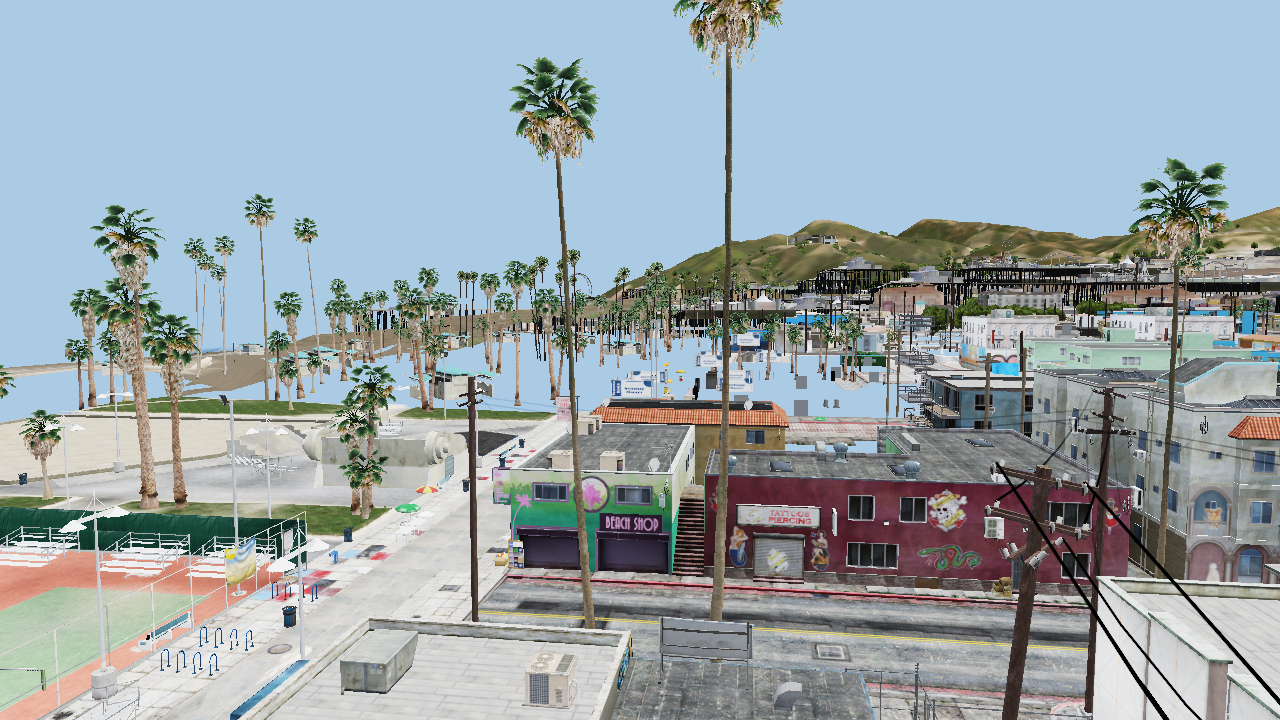
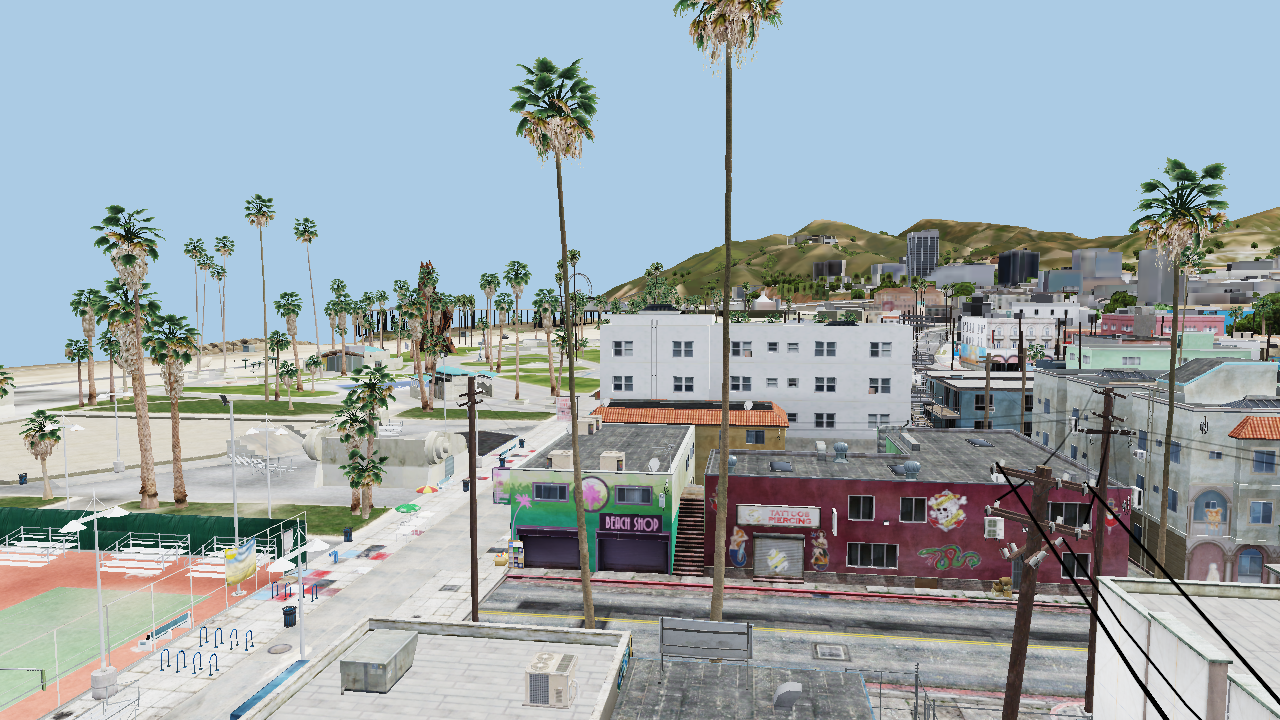
Docs and README images for the #11 fix: cover command, STATUS entry, re-rendered gallery
cli.md documents `cover`; debugging.md gains the "what should be drawn
here" and "same mesh where different objects should be" workflows;
STATUS.md records the root cause, the numbers and the data facts
measured along the way; rendering.md and README no longer list #11 as
open and describe the model cache key. The four README images are
re-rendered with the fix (the Vinewood one from the issue's own camera,
the beach one from a camera with the Del Perro pier 500 m away).

Claude-Session: https://claude.ai/code/session_014JLSQ2qZp2M9Nm34BafJ1T

Changed region(s): [[0.0, 0.3056, 1.0, 0.6417], [0.4062, 0.3667, 0.4375, 0.3972]]

diff --git a/README.md b/README.md
@@ -14,7 +14,7 @@ Native Direct3D 11 on Windows. Headless on Linux through DXVK, with no GPU requi
 
 ![Vespucci Beach rendered by Vespucci on a CPU, through the game's shaders](docs/images/vespucci_beach_overview.png)
 
-<p align="center"><sub>Vespucci Beach, 1280×720, 1,989 entities, rendered in about three seconds on a laptop GPU (RTX 3050) — or in a few more on a 2-core CPU through lavapipe, with no GPU at all. Every pixel comes from the game's own compiled shaders and materials.</sub></p>
+<p align="center"><sub>Vespucci Beach, 1280×720, 1,989 entities, rendered in about four seconds on a laptop GPU (RTX 3050) — or in a few more on a 2-core CPU through lavapipe, with no GPU at all. Every pixel comes from the game's own compiled shaders and materials.</sub></p>
 
 ## What this is
 
@@ -36,7 +36,7 @@ The render core is at milestone 4 of 6. What works today, all headless on Linux:
 | ✅ Game access | Keys derived from your `GTA5.exe`, every `.rpf` (nested, 92 DLC packs in load order, 389k files), story-mode vs. Online map sets from the DLC change sets |
 | ✅ Formats | Drawables (`.ydr`/`.ydd`/`.yft`), textures (`.ytd`, BC1–BC7), maps and archetypes (`.ymap`/`.ytyp`, 159k archetypes), the game's `.fxc` shader containers and DXBC reflection (696 shaders, 21k blobs, zero failures) |
 | ✅ One model | `render-model` draws any prop with the game's shader, every cbuffer and texture bound from the model's own material parameters, binding report as JSON |
-| ✅ Streamed world | `render` streams the map around a camera: LOD hierarchy, time-of-day objects, script-only maps filtered, decals and alpha in the right passes, HDR + tonemap, a draw-id picking pass for debugging (`--pick`). Vespucci Beach at 1280×720: 1,989 entities, 2,362 draws, 550 MB, 3.4 s on an RTX 3050 |
+| ✅ Streamed world | `render` streams the map around a camera: LOD hierarchy, time-of-day objects, script-only maps filtered, decals and alpha in the right passes, HDR + tonemap, a draw-id picking pass for debugging (`--pick`). Vespucci Beach at 1280×720: 1,989 entities, 2,196 draws, 577 MB, 4.2 s on an RTX 3050 |
 | 🔜 M5 | Game-lit frame: sky, time cycle and weather, deferred lighting, post-processing, matched pass by pass against RenderDoc captures of the real game |
 | 🔜 M6 | The editor: select, move/rotate/scale with gizmos, undo, object browser, save as a mod; the same operations over MCP in headless mode |
 
@@ -46,14 +46,14 @@ Limitations you will notice in today's renders: no sky, no shadows, a constant p
 
 | | |
 |---|---|
-| ![Boardwalk, Del Perro pier in the distance](docs/images/vespucci_boardwalk.png) | ![Vespucci Beach town and pier](docs/images/vespucci_beach_town.png) |
-| Boardwalk, with the Del Perro pier and ferris wheel in the distance | The beach town from a rooftop: tennis courts, the pier, 2,136 streamed entities |
+| ![Vespucci Beach, Del Perro pier in the distance](docs/images/vespucci_boardwalk.png) | ![Vespucci Beach town and pier](docs/images/vespucci_beach_town.png) |
+| The beach, with the Del Perro pier and ferris wheel 500 m away (`--radius 700`) | The beach town from a rooftop: tennis courts, the pier, 2,586 streamed entities |
 
-These are preview-lit renders (M4): the geometry, LOD tree, materials, tints and cutouts are the game's; the sun, ambient and sky are placeholders until M5. What you can still spot, tracked as issues: buildings with interiors keep their LOD shell until interiors render (#19), some distant SLOD pieces have no terrain under them (#11), and LOD façades are as bright as the preview ambient makes them (#2).
+These are preview-lit renders (M4): the geometry, LOD tree, materials, tints and cutouts are the game's; the sun, ambient and sky are placeholders until M5. What you can still spot, tracked as issues: buildings with interiors keep their LOD shell until interiors render (#19), and LOD façades are as bright as the preview ambient makes them (#2).
 
 ![Vinewood sign](docs/images/vinewood_sign.png)
 
-<p align="center"><sub>Vinewood hills: terrain, instanced vegetation and the sign, 1,560 entities within 400 m.</sub></p>
+<p align="center"><sub>Vinewood hills from below the sign: terrain, instanced vegetation, the sign and the radio masts on the summit, 4,013 entities streamed within 400 m (the camera of issue #11, whose floating slabs were the summit's LOD pieces drawn with the wrong dictionary entry).</sub></p>
 
 ## Quick start
 
@@ -89,6 +89,7 @@ vespucci ls x64c.rpf/levels/gta5/props                 # browse the archives as 
 vespucci find --ext ydr --name prop_cs_heist_bag_01    # the file the game would load for a name
 vespucci cat update/update.rpf/common/data/dlclist.xml # decrypt + extract anything
 vespucci probe --pos=-1280,-1450,4 --radius 300        # what the game streams at a spot (no GPU)
+vespucci cover --at 748,1290,375                       # which entities' boxes contain a point, with their LOD links (no GPU)
 vespucci shader normal_spec --reflect                   # cbuffers, textures, vertex inputs of a game shader
 vespucci texture prop_veg_palmfan_1.ytd --out tex/     # textures to PNG
 vespucci render-model prop_cs_heist_bag_01 --technique lightweightHighQuality0_draw --dump-binding bag.json

diff --git a/docs/STATUS.md b/docs/STATUS.md
@@ -7,9 +7,16 @@ Newest first. The sections are dated and kept as written, so this file doubles a
 - **Milestones M0–M4 done** on Linux headless; see [PLAN.md](../PLAN.md). `vespucci render` draws the streamed world through the game's own shaders with a preview lighting setup.
 - **Next: M5** — a game-lit frame matched against RenderDoc captures of the real game (sky, time cycle, deferred lighting, post-processing). Captures wanted: A Vespucci Beach 18:30 EXTRASUNNY, B Legion Square 12:00 CLEAR, C sky, D Del Perro pier 21:30 CLEAR, E overcast — 1280×720, MSAA off, player hidden, time frozen.
 - Then **M6**: the editor itself (Dear ImGui shell on Windows, MCP server on both platforms).
-- Known rendering issues: downtown glass/reflective buildings render dark (forward techniques with stand-in reflections); distant SLOD pieces can appear to float (#11); buildings with interiors keep their LOD shell (#19); no sky, water, interiors or vehicles yet. Details in [rendering.md](rendering.md).
+- Known rendering issues: downtown glass/reflective buildings render dark (forward techniques with stand-in reflections); buildings with interiors keep their LOD shell (#19); no sky, water, interiors or vehicles yet. Details in [rendering.md](rendering.md).
 - **Native Windows verified (2026-10-02):** `doctor --gpu`, `render-model` and `render` run on the PC (RTX 3050, feature level 11.0), built natively with the MSYS2 UCRT64 toolchain; see [building.md](building.md). Development now happens there, with the Steam install; the goldens are frozen there too (2026-10-03).
-- **2026-10-03:** the M4 defect round is done — tint palettes (#30), cutout alpha test (#32), tree-LOD NaNs (#33) and the LOD rule (#31, now CodeWalker's tree walk with the game's streaming extents); see the section below.
+- **2026-10-03:** the M4 defect round is done — tint palettes (#30), cutout alpha test (#32), tree-LOD NaNs (#33) and the LOD rule (#31, now CodeWalker's tree walk with the game's streaming extents); see the section below. Later the same day, the "floating SLOD pieces" (#11) turned out to be the model cache handing one `.ydd` entry to every archetype of the dictionary; fixed, with a new `cover` diagnostic (next section).
+
+## Update 2026-10-03 (afternoon) — #11: LOD pieces drew the wrong dictionary entry
+
+The three slabs floating over the Vinewood summit (`--pos=560,1120,330 --look=711,1198,350 --radius 400 --fov 40 --time 18:30`) and downtown's rooftop palms with no building under them had one cause, and it was not the LOD rule or the map selection: `world_view.rs` cached GPU models by (extension, file hash), so every archetype whose drawable lives in the same `.ydd` reused the first entry loaded. Every LOD piece of an area lives in one `*_slod_children.ydd`, so most LOD-level entities drew a sibling's mesh at their own position. At the summit the first entry loaded was the 147 m concrete pad (the LOD of `ch2_03_towerbase`), drawn again at the hut, dish and radio-tower positions; `--pick` on a slab showed the pad's `ch2_03_towerbase_lod` texture on the entity whose LOD should have been `ch2_03_hut02`'s. The key is now (extension, file, dictionary entry, texture dictionary) — the dictionary because the materials bind textures through the archetype's dictionary chain — with unit tests in `world_view.rs`. Models loaded at the summit went 101 → 285; time and memory are unchanged (beach-town 423 models / 4.2 s / 581 MB, Legion 410 / 4.4 s / 587 MB, beach 471 / 4.2 s / 577 MB). World goldens re-frozen; against the old images they differ by 20.9 dB (Legion) and 23 dB (beach), the distant building LODs being the right meshes now.
+
+- **New diagnostic: `vespucci cover --at X,Y,Z [--margin M]`** lists every entity whose world-space bounding box (the archetype's box through the entity transform) contains a point, largest first, with LOD level, `lodDist`/`childLodDist`, parent link, flags and box. That is how the summit hierarchy was mapped: SLOD1 `ch2_lod3_s2b_children` #28 → four LOD entries → `towerbase`/`hut02`/`dishes001`/`radio_tower_01`, all standing on `ch2_03_land06`, whose box tops out at z=364 under the pad at 359 — which showed the terrain was there and the slabs were the wrong meshes.
+- **Measured along the way:** all 76,906 drawable-dictionary archetypes have `assetName == name` (CodeWalker looks the entry up by the archetype name; Vespucci's `asset_name_hash` is equivalent); 13 `.ydr`/`.yft` archetypes have `assetName != name`; one model file is shared by archetypes with different texture dictionaries. The terrain shaders (`terrain_cb_*`) have `draw`, `lightweight0_draw` and `unlit_draw` but no `lightweightHighQuality0_draw`, so `render-model` needs `--technique draw` for a land piece; `render` already falls back.
 
 ## Development environment (where the numbers below come from)
 

diff --git a/docs/rendering.md b/docs/rendering.md
@@ -16,7 +16,7 @@ camera ──► streamer (maps in radius → entities → LOD rule → instance
 
 ### Streaming and budgets
 
-`collect()` reads every ymap whose entity extents touch the sphere `--radius` around the camera (default 300 m) and every ymap whose streaming extents contain the camera (what the game itself would have loaded), plus their ancestors. Maps are parsed in parallel and linked into the LOD tree; the rule in [formats.md](formats.md), walked from the roots, decides which entities are drawn; the result is sorted by distance so that, when a budget is hit, the nearest things are the ones drawn. Three limits apply while loading: `--max-draws` (instances), `--budget-mb` (geometry + texture bytes uploaded) and `--mip-skip` (top mip levels dropped at <100 m, <500 m and beyond). Models and texture dictionaries are cached per render by hash, so a prop used 200 times is loaded once.
+`collect()` reads every ymap whose entity extents touch the sphere `--radius` around the camera (default 300 m) and every ymap whose streaming extents contain the camera (what the game itself would have loaded), plus their ancestors. Maps are parsed in parallel and linked into the LOD tree; the rule in [formats.md](formats.md), walked from the roots, decides which entities are drawn; the result is sorted by distance so that, when a budget is hit, the nearest things are the ones drawn. Three limits apply while loading: `--max-draws` (instances), `--budget-mb` (geometry + texture bytes uploaded) and `--mip-skip` (top mip levels dropped at <100 m, <500 m and beyond). Models are cached per render by file, dictionary entry and texture dictionary (a prop used 200 times is loaded once; each entry of a `*_slod_children.ydd` is its own model, and two archetypes sharing a drawable but not a texture dictionary get separate materials), texture dictionaries by hash.
 
 ### Materials
 
@@ -43,7 +43,7 @@ Opaque draws are grouped by model so consecutive draws share shaders, layouts an
 
 ## What the output is and is not
 
-Done: geometry placement, the game's LOD tree walked the way CodeWalker does it (parents hand over to loaded children, children drawn when handed over, streaming-extent map selection), materials and textures as the game binds them, tint palettes with the entity's tint, cutout alpha test, alpha blend/decal ordering, detail maps, time-of-day object variants, script-map filtering, power-line cables, a draw-id picking pass (`--pick`, `--id-map`). Known gaps are tracked as issues: a building with an interior keeps its LOD shell until interiors render (#19), distant SLOD pieces without terrain under them (#11), and the brightness of LOD façades, which is the preview ambient (#2).
+Done: geometry placement, the game's LOD tree walked the way CodeWalker does it (parents hand over to loaded children, children drawn when handed over, streaming-extent map selection), materials and textures as the game binds them, tint palettes with the entity's tint, cutout alpha test, alpha blend/decal ordering, detail maps, time-of-day object variants, script-map filtering, power-line cables, a draw-id picking pass (`--pick`, `--id-map`). Known gaps are tracked as issues: a building with an interior keeps its LOD shell until interiors render (#19), and the brightness of LOD façades, which is the preview ambient (#2).
 
 Not done (these are the differences you will see against a screenshot):
 
@@ -56,7 +56,6 @@ Not done (these are the differences you will see against a screenshot):
 | Water, interiors (MLO), vehicles with skeletons, car generators, LOD lights | not drawn | after M5 |
 | Reflection and fog-ray textures | flat stand-in colour | M5 |
 | `.fxc` sampler states (filters, address modes, mip bias) | one anisotropic wrap sampler | M5 |
-| Far LOD coverage | distant SLOD pieces can appear to float when the LOD that should sit under them is in a map outside `--radius` or is hidden by a different distance band | streaming by LOD level |
 
 ## Performance notes (lavapipe, 2-core Haswell)
 

diff --git a/docs/debugging.md b/docs/debugging.md
@@ -27,6 +27,10 @@ Log levels: `--log debug` explains every skipped map (script flags, time variant
 
 **What is this pixel?** `render … --pick X,Y` names the model, geometry, material, technique, bucket and every texture binding drawn at that pixel (exact: a second pass renders draw ids). `--id-map ids.png` colours the whole frame by draw, which makes stray geometry obvious. (This identified the pink "pole" as a tinted ladder, the magenta bar as a tree-LOD billboard and the cyan panel as a telegraph pole's cutout LOD.)
 
+**What should be drawn at this point?** `cover --at X,Y,Z [--margin M]` (no GPU) lists every entity whose world-space box contains the point, largest first, with its LOD fields and parent link; its `#index` and map match the entity trace, so a missing object can be followed from "it is in the data" to the walk's decision about it. (This mapped the Vinewood summit for #11: the three floating slabs were LOD entries of one `.ydd`, the ground under them was `ch2_03_land06` and it was drawn, so the slabs themselves were wrong.)
+
+**The same mesh appears where different objects should be.** `--pick` two of them: when the model file and texture names are identical but `cover` says the entities are different archetypes, the model cache is handing out one entry for several. (#11: GPU models were cached by file only, so every archetype in a `*_slod_children.ydd` drew the first entry loaded; the summit's concrete pad appeared at the hut, dish and tower positions, and downtown drew palm clusters where building LODs belong.)
+
 **Something draws where it should not.** `--log trace`, filter by distance and size to find candidates, confirm with `VESPUCCI_SKIP`. Then `VESPUCCI_TRACE_ENTITY=<name>` shows why the LOD rule kept it. (This found the 6.7 km reflection-proxy box drawn over Vespucci Beach: a script-only map.)
 
 **A surface looks wrong.** Bisect the shader: `VESPUCCI_SKIP_SHADER` to find the material, then `VESPUCCI_SET_VAR` on its parameters one by one, then `VESPUCCI_SET_GLOBAL` for the lighting terms. If nothing changes the look, it is not that material: check for a second geometry drawing over it (`render-model --log debug` lists each model's render mask and vertex-colour statistics). (This found the shadow-proxy models drawn over palm trunks.)

diff --git a/docs/cli.md b/docs/cli.md
@@ -64,6 +64,14 @@ vespucci probe --pos X,Y,Z [--radius 300] [--json]
 
 No GPU. Lists the ymaps whose entity extents touch the sphere, with entity counts per LOD level and content flags, plus the total model data they reference. Use it to understand what `render` will load at a spot, or to find map names for a region.
 
+## `cover` — which entities cover a point
+
+```
+vespucci cover --at X,Y,Z [--margin 0]
+```
+
+No GPU. Lists every entity, in every map of the selected set, whose world-space bounding box (the archetype's box through the entity's position, rotation and scale) contains the point, grown by `--margin` metres. Each line gives the map (with `(script)` for script-requested maps), the entity index, the model file, the LOD level, `lodDist` (with `(arch)` when it comes from the archetype), `childLodDist`, the parent index (with `(parent map)` when `flags` bit 3 puts the parent in the parent map), the number of children, the flags, the position and the box, largest boxes first. It answers "what should be drawn here, and what are its LOD parents?"; the `#index` and map match the entity trace (`VESPUCCI_TRACE_ENTITY`, see [debugging.md](debugging.md)), so an object can be followed from the data to the walk's decision about it.
+
 ## `render` — draw the world
 
 ```

diff --git a/docs/architecture.md b/docs/architecture.md
@@ -72,7 +72,7 @@ GTA V ships its shaders compiled: each `.fxc` ("rgxe") container holds, per shad
 
 ### `vespucci` — the command line
 
-One subcommand per file: `doctor`, `ls`/`cat`/`find` (VFS), `index`/`probe` (world), `shader`, `texture`, `compare`, `render-model`, `render`. See [cli.md](cli.md). `files.rs` opens the game and reports peak RSS. The MCP server and the desktop shell (milestone M6) will be additional front ends over the same crates.
+One subcommand per file: `doctor`, `ls`/`cat`/`find` (VFS), `index`/`probe`/`cover` (world), `shader`, `texture`, `compare`, `render-model`, `render`. See [cli.md](cli.md). `files.rs` opens the game and reports peak RSS. The MCP server and the desktop shell (milestone M6) will be additional front ends over the same crates.
 
 ### `third_party/rage-formats` — vendored parser crate
 
